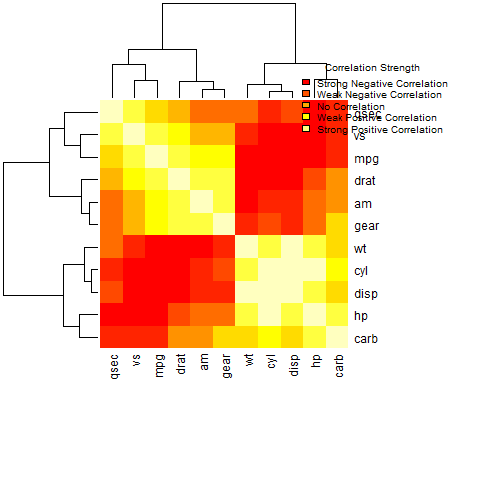
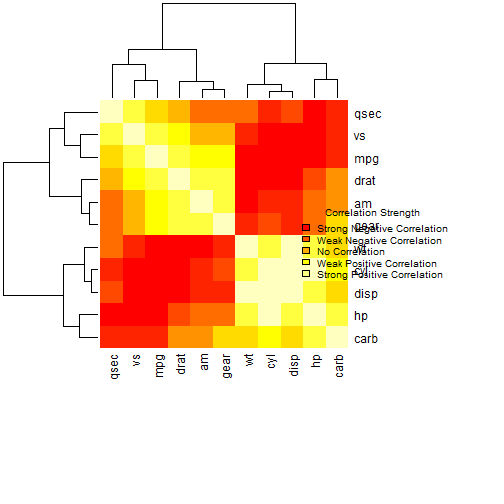
`Refactor code to update file paths for figures in knit_all.r`

Changed region(s): [[0.5952, 0.119, 0.8929, 0.2679], [0.5952, 0.4167, 0.8929, 0.5655]]

diff --git a/lectures/lecture_13/lecture_13.md b/lectures/lecture_13/lecture_13.md
@@ -53,6 +53,8 @@
 </details><!--/html_preserve-->
 
 
+
+
 In this lecture, we will work on a real-world example of using R for data
 analysis. We will load a data set and perform some basic data exploration and
 analysis.
@@ -190,7 +192,7 @@ plot(mtcars$hp,
      main = "Scatter Plot of MPG vs. Horsepower")
 ```
 
-![plot of chunk plot_mpg_hp](.//figures/plot_mpg_hp-1.png)
+![plot of chunk plot_mpg_hp](../../lectures/lecture_13/figures/plot_mpg_hp-1.png)
 
 The scatter plot shows the relationship between miles per gallon (mpg) and
 horsepower for the car models in the dataset. We can see that there is a
@@ -276,7 +278,7 @@ heatmap(
 )
 ```
 
-![plot of chunk heatmap](.//figures/heatmap-1.png)
+![plot of chunk heatmap](../../lectures/lecture_13/figures/heatmap-1.png)
 
 Note that we can organize the code in a more readable way by breaking it into
 multiple lines. This makes it easier to understand and modify the code. The
@@ -303,7 +305,7 @@ heatmap(
   margins = c(13, 13)
 )
 legend(
-  "topright",
+  "right",
   legend = c(
     "Strong Negative Correlation",
     "Weak Negative Correlation",
@@ -320,7 +322,7 @@ legend(
 )
 ```
 
-![plot of chunk heatmap_legend](.//figures/heatmap_legend-1.png)
+![plot of chunk heatmap_legend](../../lectures/lecture_13/figures/heatmap_legend-1.png)
 
 The legend provides a key to the color scale used in the heatmap, indicating
 the strength of the correlation between variables. This additional
@@ -341,22 +343,53 @@ That's it for this lecture! In the next lecture, we will cover more advanced
 topics in R and explore additional data analysis techniques.
 
 
+<!--html_preserve--><details>
+  <summary>Lecture index</summary>
 
-```
-## Warning in file(con, "r"): cannot open file '../../index_lectures.html': No
-## such file or directory
-```
+- [Lecture 1: Introduction to R](/lectures/lecture_01/lecture_01.md)
+- [Lecture 2: Objects, Data Types, and Variables in R](/lectures/lecture_02/lecture_02.md)
+- [Lecture 3: Arithmetic Operations in R](/lectures/lecture_03/lecture_03.md)
+- [Lecture 4: Comparison and Logical Operators in R](/lectures/lecture_04/lecture_04.md)
+- [Lecture 5: Vectors in R](/lectures/lecture_05/lecture_05.md)
+- [Lecture 6: List in R](/lectures/lecture_06/lecture_06.md)
+- [Lecture 7: Matrices in R](/lectures/lecture_07/lecture_07.md)
+- [Lecture 8: Data Frames in R](/lectures/lecture_08/lecture_08.md)
+- [Lecture 9: Functions in R](/lectures/lecture_09/lecture_09.md)
+- [Lecture 10: Indexing using Logical Vectors in R](/lectures/lecture_10/lecture_10.md)
+- [Lecture 11: Factors in R](/lectures/lecture_11/lecture_11.md)
+- [Lecture 12: Control Structures in R](/lectures/lecture_12/lecture_12.md)
+- [Lecture 13: A real-world example of using R for data analysis](/lectures/lecture_13/lecture_13.md)
 
-```
-## Error in file(con, "r"): cannot open the connection
-```
+</details><!--/html_preserve--><!--html_preserve--><details>
+  <summary>Exercise index</summary>
 
-```
-## Warning in file(con, "r"): cannot open file '../../index_exercises.html': No
-## such file or directory
-```
+  - [Exercise 1: Introduction to R](/exercises/exercise_01/exercise_01.md)
+  - [Exercise 1 Solutions: Introduction to R](/exercises/exercise_01/exercise_01_solutions.md)
+  - [Exercise 2: Objects, Data Types, and Variables in R](/exercises/exercise_02/exercise_02.md)
+  - [Exercise 2 Solutions: Objects, Data Types, and Variables in R](/exercises/exercise_02/exercise_02_solutions.md)
+  - [Exercise 3: Arithmetic Operations in R](/exercises/exercise_03/exercise_03.md)
+  - [Exercise 3 Solutions: Arithmetic Operations in R](/exercises/exercise_03/exercise_03_solutions.md)
+  - [Exercise 4: Comparison and Logical Operators in R](/exercises/exercise_04/exercise_04.md)
+  - [Exercise 4 Solutions: Comparison and Logical Operators in R](/exercises/exercise_04/exercise_04_solutions.md)
+  - [Exercise 5: Vectors in R](/exercises/exercise_05/exercise_05.md)
+  - [Exercise 5 Solutions: Vectors in R](/exercises/exercise_05/exercise_05_solutions.md)
+  - [Exercise 6: List in R](/exercises/exercise_06/exercise_06.md)
+  - [Exercise 6 Solutions: List in R](/exercises/exercise_06/exercise_06_solutions.md)
+  - [Exercise 7: Matrices in R](/exercises/exercise_07/exercise_07.md)
+  - [Exercise 7 Solutions: Matrices in R](/exercises/exercise_07/exercise_07_solutions.md)
+  - [Exercise 8: Data Frames in R](/exercises/exercise_08/exercise_08.md)
+  - [Exercise 8 Solutions: Data Frames in R](/exercises/exercise_08/exercise_08_solutions.md)
+  - [Exercise 9: Functions in R](/exercises/exercise_09/exercise_09.md)
+  - [Exercise 9 Solutions: Functions in R](/exercises/exercise_09/exercise_09_solutions.md)
+  - [Exercise 10: Indexing using Logical Vectors in R](/exercises/exercise_10/exercise_10.md)
+  - [Exercise 10 Solutions: Indexing using Logical Vectors in R](/exercises/exercise_10/exercise_10_solutions.md)
+  - [Exercise 11: Factors in R](/exercises/exercise_11/exercise_11.md)
+  - [Exercise 11 Solutions: Factors in R](/exercises/exercise_11/exercise_11_solutions.md)
+  - [Exercise 12: Control Structures in R](/exercises/exercise_12/exercise_12.md)
+  - [Exercise 12 Solutions: Control Structures in R](/exercises/exercise_12/exercise_12_solutions.md)
+  - [Exercise 13: A real-world example of using R for data analysis](/exercises/exercise_13/exercise_13.md)
+  - [Exercise 13 Solutions: A real-world example of using R for data
+  analysis](/exercises/exercise_13/exercise_13_solutions.md)
 
-```
-## Error in file(con, "r"): cannot open the connection
-```
+</details><!--/html_preserve-->
 

diff --git a/lectures/lecture_11/lecture_11.md b/lectures/lecture_11/lecture_11.md
@@ -294,7 +294,7 @@ barplot(
 )
 ```
 
-![plot of chunk barplot_with_order](.//figures/barplot_with_order-1.png)
+![plot of chunk barplot_with_order](../../lectures/lecture_11/figures/barplot_with_order-1.png)
 
 Here is an example what the bar plot would look like if the factor was not
 ordered. Let's create a bar plot of the factor without specifying the order.
@@ -310,7 +310,7 @@ barplot(table(size_factor),
 )
 ```
 
-![plot of chunk barplot_without_order](.//figures/barplot_without_order-1.png)
+![plot of chunk barplot_without_order](../../lectures/lecture_11/figures/barplot_without_order-1.png)
 
 The bar plot without the order specified does not reflect the natural order
 of the sizes. This can lead to misleading visualizations and
